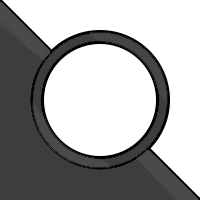
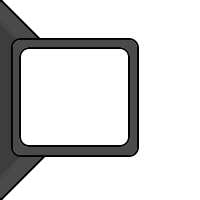
squares (i might change the look of this)
ye

diff --git a/GreatGame/UI/UserInterface.cs b/GreatGame/UI/UserInterface.cs
@@ -18,7 +18,12 @@ namespace GreatGame
         private Vector2 textpos2;
         private Vector2 timertext1;
         private Vector2 timertext2;
-        private Rectangle blRect;
+        private Rectangle Rect1;
+        private Rectangle Rect2;
+        private Rectangle Rect3;
+        private Rectangle Rect4;
+        private Rectangle Rect5;
+        private Rectangle Rect6;
         private Rectangle brRect;
         private Rectangle redRect;
         private Rectangle blueRect;
@@ -29,7 +34,6 @@ namespace GreatGame
         public Texture2D BottomLeft { get { return bottomLeft; } set { bottomLeft = value; } }
         public Texture2D BottomRight { get { return bottomRight; } set { bottomRight = value; } }
         public Texture2D Timer { get { return timer; } set { timer = value; } }
-        public Rectangle BLRect { get { return blRect; } set { blRect = value; } }
         public Rectangle BRRect { get { return brRect; } set { brRect = value; } }
         public Rectangle IconRect { get { return iconRect; } set { iconRect = value; } }
         public Map Map { get { return map; } set { map = value; } }
@@ -37,7 +41,12 @@ namespace GreatGame
 
         public UserInterface(GraphicsDevice gd)
         {
-            blRect = new Rectangle(0, gd.Viewport.Height - 150, 150, 150);
+            Rect1 = new Rectangle(0, (gd.Viewport.Height / 2) - 300, 100, 100);
+            Rect2 = new Rectangle(0, (gd.Viewport.Height / 2) - 200, 100, 100);
+            Rect3 = new Rectangle(0, (gd.Viewport.Height / 2) - 100, 100, 100);
+            Rect4 = new Rectangle(0, (gd.Viewport.Height / 2), 100, 100);
+            Rect5 = new Rectangle(0, (gd.Viewport.Height / 2) + 100, 100, 100);
+            Rect6 = new Rectangle(0, (gd.Viewport.Height / 2) + 200, 100, 100);
             brRect = new Rectangle(gd.Viewport.Width - 375, gd.Viewport.Height - 150, 375, 150);
             iconRect = new Rectangle(0, gd.Viewport.Height - 150, 100, 100);
             textpos = new Vector2(brRect.Location.X + 60, brRect.Location.Y + 50);
@@ -50,7 +59,12 @@ namespace GreatGame
 
         public void Draw(SpriteBatch sb, SpriteFont font)
         {
-            sb.Draw(bottomLeft, blRect, Color.White);
+            sb.Draw(bottomLeft, Rect1, Color.White);
+            sb.Draw(bottomLeft, Rect2, Color.White);
+            sb.Draw(bottomLeft, Rect3, Color.White);
+            sb.Draw(bottomLeft, Rect4, Color.White);
+            sb.Draw(bottomLeft, Rect5, Color.White);
+            sb.Draw(bottomLeft, Rect6, Color.White);
             sb.Draw(bottomRight, brRect, Color.White);
             sb.Draw(timer, blueRect, Color.CornflowerBlue);
             sb.Draw(timer, redRect, new Color(255, 147, 147));
